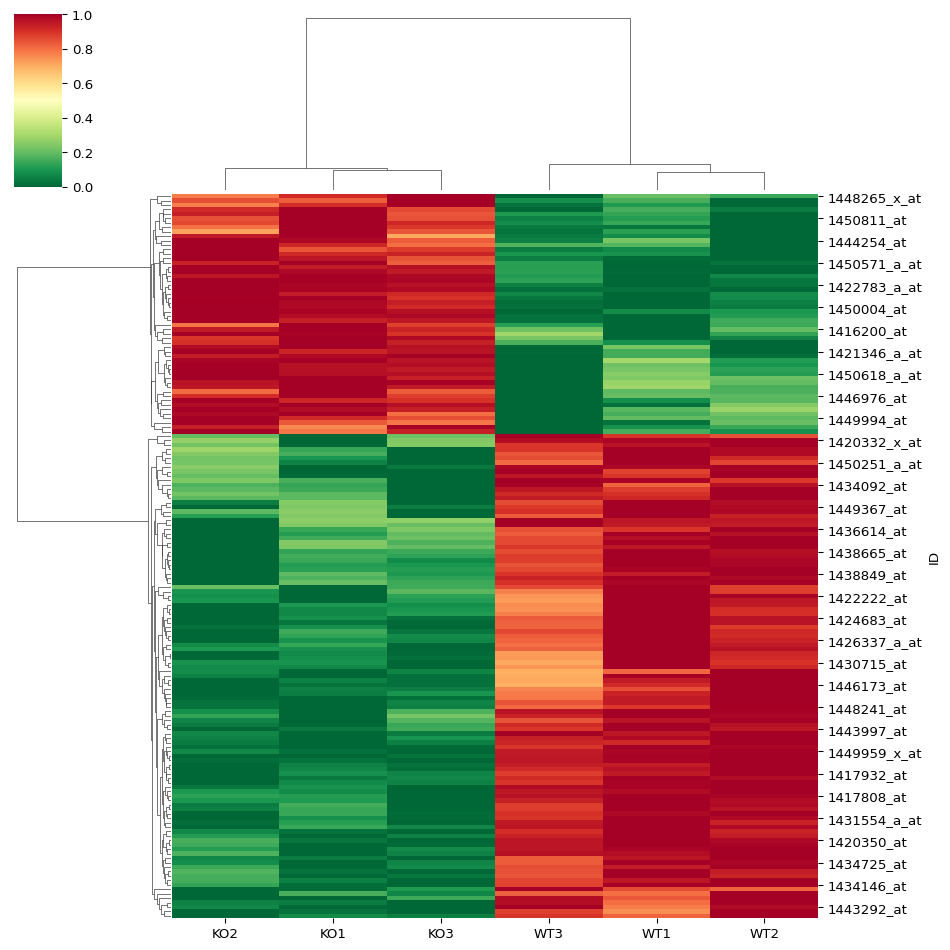
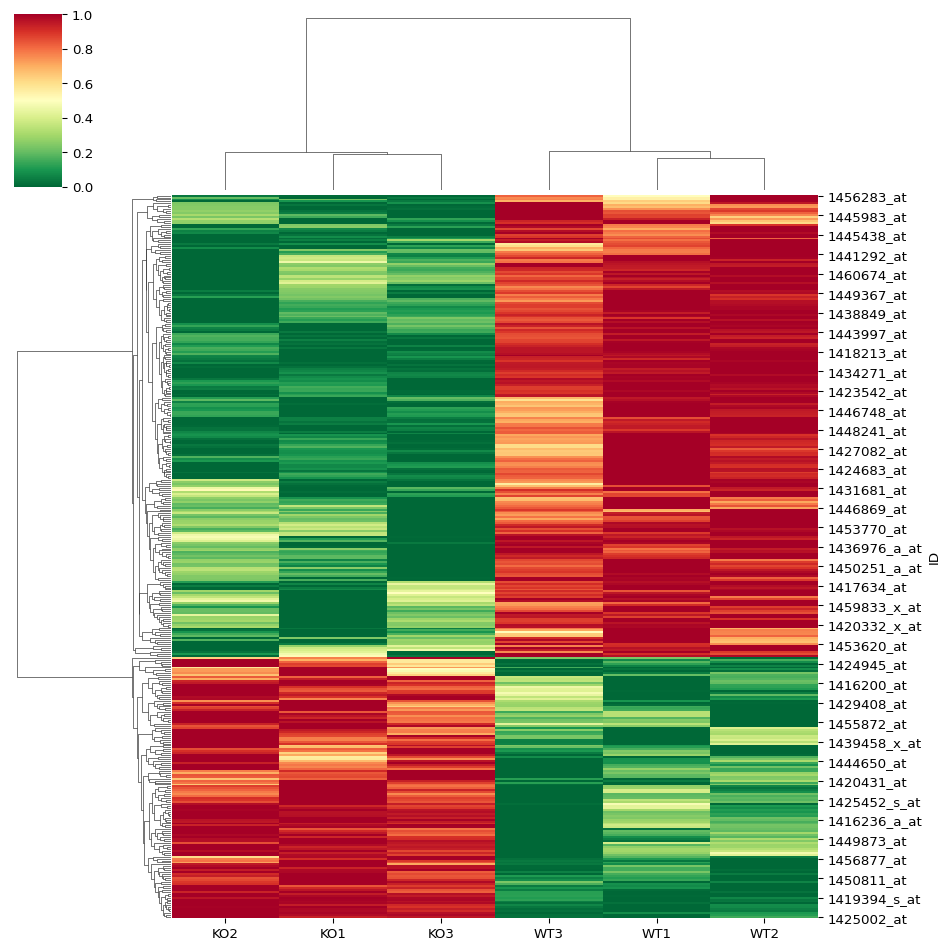
Added a sanity check

diff --git a/Irf6/Irf6_py.md b/Irf6/Irf6_py.md
@@ -49,6 +49,8 @@ October 5, 2023
     fold-change & significant
     *p*-value](#genes-with-significant-fold-change-significant-p-value)
   - [<span class="toc-section-number">8.4</span> Heatmap](#heatmap)
+- [<span class="toc-section-number">9</span> Sanity
+  check](#sanity-check)
 
 ## Importing required libraries
 
@@ -140,48 +142,48 @@ data2.hist()
 plt.boxplot(data2)
 ```
 
-    {'whiskers': [<matplotlib.lines.Line2D at 0x137136450>,
-      <matplotlib.lines.Line2D at 0x137137590>,
-      <matplotlib.lines.Line2D at 0x13710ef10>,
-      <matplotlib.lines.Line2D at 0x13710c550>,
-      <matplotlib.lines.Line2D at 0x13710e0d0>,
-      <matplotlib.lines.Line2D at 0x13724a150>,
-      <matplotlib.lines.Line2D at 0x137249390>,
-      <matplotlib.lines.Line2D at 0x137213750>,
-      <matplotlib.lines.Line2D at 0x137210b90>,
-      <matplotlib.lines.Line2D at 0x1301cf810>,
-      <matplotlib.lines.Line2D at 0x137240f10>,
-      <matplotlib.lines.Line2D at 0x137240250>],
-     'caps': [<matplotlib.lines.Line2D at 0x137137ad0>,
-      <matplotlib.lines.Line2D at 0x1371360d0>,
-      <matplotlib.lines.Line2D at 0x13710cb90>,
-      <matplotlib.lines.Line2D at 0x13710d910>,
-      <matplotlib.lines.Line2D at 0x13724b110>,
-      <matplotlib.lines.Line2D at 0x13724b790>,
-      <matplotlib.lines.Line2D at 0x137213210>,
-      <matplotlib.lines.Line2D at 0x137211b90>,
-      <matplotlib.lines.Line2D at 0x13184bf50>,
-      <matplotlib.lines.Line2D at 0x137241a90>,
-      <matplotlib.lines.Line2D at 0x137240b90>,
-      <matplotlib.lines.Line2D at 0x137269710>],
-     'boxes': [<matplotlib.lines.Line2D at 0x137118690>,
-      <matplotlib.lines.Line2D at 0x13187cdd0>,
-      <matplotlib.lines.Line2D at 0x13710d0d0>,
-      <matplotlib.lines.Line2D at 0x13724a890>,
-      <matplotlib.lines.Line2D at 0x137212950>,
-      <matplotlib.lines.Line2D at 0x137243550>],
-     'medians': [<matplotlib.lines.Line2D at 0x131da10d0>,
-      <matplotlib.lines.Line2D at 0x13710df50>,
-      <matplotlib.lines.Line2D at 0x137249990>,
-      <matplotlib.lines.Line2D at 0x137210590>,
-      <matplotlib.lines.Line2D at 0x1372425d0>,
-      <matplotlib.lines.Line2D at 0x137268c10>],
-     'fliers': [<matplotlib.lines.Line2D at 0x13187d510>,
-      <matplotlib.lines.Line2D at 0x131ce8b10>,
-      <matplotlib.lines.Line2D at 0x13710f450>,
-      <matplotlib.lines.Line2D at 0x137248350>,
-      <matplotlib.lines.Line2D at 0x137241650>,
-      <matplotlib.lines.Line2D at 0x137210dd0>],
+    {'whiskers': [<matplotlib.lines.Line2D at 0x13fb22f10>,
+      <matplotlib.lines.Line2D at 0x13fb57d50>,
+      <matplotlib.lines.Line2D at 0x13fb6b210>,
+      <matplotlib.lines.Line2D at 0x13fb6bad0>,
+      <matplotlib.lines.Line2D at 0x13fb76f90>,
+      <matplotlib.lines.Line2D at 0x13fb778d0>,
+      <matplotlib.lines.Line2D at 0x13fb86dd0>,
+      <matplotlib.lines.Line2D at 0x13fb87690>,
+      <matplotlib.lines.Line2D at 0x13fb96a90>,
+      <matplotlib.lines.Line2D at 0x13fb972d0>,
+      <matplotlib.lines.Line2D at 0x13fba27d0>,
+      <matplotlib.lines.Line2D at 0x13fba3050>],
+     'caps': [<matplotlib.lines.Line2D at 0x13fb686d0>,
+      <matplotlib.lines.Line2D at 0x13fb68fd0>,
+      <matplotlib.lines.Line2D at 0x13fb74150>,
+      <matplotlib.lines.Line2D at 0x13fb74d10>,
+      <matplotlib.lines.Line2D at 0x13fb84290>,
+      <matplotlib.lines.Line2D at 0x13fb84b10>,
+      <matplotlib.lines.Line2D at 0x13fb87f50>,
+      <matplotlib.lines.Line2D at 0x13fb94850>,
+      <matplotlib.lines.Line2D at 0x13fb97b50>,
+      <matplotlib.lines.Line2D at 0x13f820390>,
+      <matplotlib.lines.Line2D at 0x13fba3910>,
+      <matplotlib.lines.Line2D at 0x13fbb4290>],
+     'boxes': [<matplotlib.lines.Line2D at 0x13fb2d110>,
+      <matplotlib.lines.Line2D at 0x13fb6a990>,
+      <matplotlib.lines.Line2D at 0x13fb76750>,
+      <matplotlib.lines.Line2D at 0x13fb86510>,
+      <matplotlib.lines.Line2D at 0x13fb96250>,
+      <matplotlib.lines.Line2D at 0x13fba1f10>],
+     'medians': [<matplotlib.lines.Line2D at 0x13fb69950>,
+      <matplotlib.lines.Line2D at 0x13fb755d0>,
+      <matplotlib.lines.Line2D at 0x13fb853d0>,
+      <matplotlib.lines.Line2D at 0x13fb95110>,
+      <matplotlib.lines.Line2D at 0x13fba0c10>,
+      <matplotlib.lines.Line2D at 0x13fbb4d90>],
+     'fliers': [<matplotlib.lines.Line2D at 0x13fb0fd10>,
+      <matplotlib.lines.Line2D at 0x13fb75e50>,
+      <matplotlib.lines.Line2D at 0x13fb6b850>,
+      <matplotlib.lines.Line2D at 0x13cd89d10>,
+      <matplotlib.lines.Line2D at 0x13fba1510>,
+      <matplotlib.lines.Line2D at 0x13fbb5710>],
      'means': []}
 
 ![](Irf6_py_files/figure-commonmark/cell-7-output-2.png)
@@ -336,7 +338,7 @@ wt_means.head()
 plt.scatter(x = wt_means, y = ko_means)
 ```
 
-    <matplotlib.collections.PathCollection at 0x147f2bc10>
+    <matplotlib.collections.PathCollection at 0x14c03a450>
 
 ![](Irf6_py_files/figure-commonmark/cell-15-output-2.png)
 
@@ -472,7 +474,7 @@ sns.histplot (-np.log10(t_stat_df['p_value']))
 plt.scatter (x = fold_change, y = -np.log10(t_stat_df['p_value']))
 ```
 
-    <matplotlib.collections.PathCollection at 0x175810610>
+    <matplotlib.collections.PathCollection at 0x14c656a50>
 
 ![](Irf6_py_files/figure-commonmark/cell-23-output-2.png)
 
@@ -500,11 +502,11 @@ np.sum(abs(fold_change.values) >= fold_change_cutoff)
 ### Genes with significant *p*-value
 
 ``` python
-pvalue_cutoff = 0.001
+pvalue_cutoff = 0.01
 np.sum(t_stat_df['p_value'] <= pvalue_cutoff)
 ```
 
-    575
+    2503
 
 ### Genes with significant fold-change & significant *p*-value
 
@@ -512,7 +514,7 @@ np.sum(t_stat_df['p_value'] <= pvalue_cutoff)
 np.sum((abs(fold_change.values) >= fold_change_cutoff) & (t_stat_df['p_value'] <= pvalue_cutoff))
 ```
 
-    163
+    371
 
 ``` python
 filtered = data2.reset_index().loc[(abs(fold_change.values) >= fold_change_cutoff) & (t_stat_df['p_value'] <= pvalue_cutoff)]
@@ -520,7 +522,7 @@ filtered.set_index('ID', inplace=True)
 filtered.shape
 ```
 
-    (163, 6)
+    (371, 6)
 
 ``` python
 filtered.head()
@@ -544,9 +546,9 @@ filtered.head()
 | ID           |           |           |           |           |           |           |
 | 1416200_at   | 13.312004 | 12.973357 | 12.868456 | 7.404290  | 8.558803  | 8.683696  |
 | 1416236_a_at | 14.148397 | 14.039236 | 14.130007 | 12.236044 | 12.022402 | 11.495056 |
+| 1417633_at   | 6.098032  | 5.852998  | 7.776104  | 11.214441 | 10.960436 | 10.628537 |
+| 1417634_at   | 5.916477  | 6.110614  | 7.433794  | 10.172428 | 10.055147 | 9.597494  |
 | 1417808_at   | 5.321928  | 5.442943  | 4.053111  | 15.169780 | 15.070087 | 14.753274 |
-| 1417932_at   | 10.602884 | 10.257152 | 10.496055 | 13.984454 | 14.203294 | 13.720960 |
-| 1418050_at   | 10.622052 | 10.975490 | 10.795066 | 12.865134 | 13.012048 | 12.658122 |
 
 </div>
 
@@ -557,3 +559,43 @@ sns.clustermap(filtered, cmap='RdYlGn_r', standard_scale = 0)
 ```
 
 ![](Irf6_py_files/figure-commonmark/cell-30-output-1.png)
+
+## Sanity check
+
+- Checking IRF6 itself
+
+``` python
+irf6 = filtered.loc['1418301_at']
+irf6
+```
+
+    KO1     7.222070
+    KO2     8.795066
+    KO3     8.793116
+    WT1    12.667599
+    WT2    12.102665
+    WT3    12.008043
+    Name: 1418301_at, dtype: float64
+
+- Reshaping the data for the boxplot
+
+``` python
+irf6_ko = irf6.values[0:3]
+irf6_wt = irf6.values[3:6]
+irf6_data = [irf6_wt, irf6_ko]
+irf6_data
+```
+
+    [array([12.66759946, 12.10266469, 12.00804339]),
+     array([7.22207036, 8.79506558, 8.79311556])]
+
+- A boxplot for expression profile of IRF6 across the samples
+
+``` python
+plt.boxplot(irf6_data, labels=['WT', 'KO'])
+plt.title('Expression levels of IRF6 - KO vs. WT')
+```
+
+    Text(0.5, 1.0, 'Expression levels of IRF6 - KO vs. WT')
+
+![](Irf6_py_files/figure-commonmark/cell-33-output-2.png)
